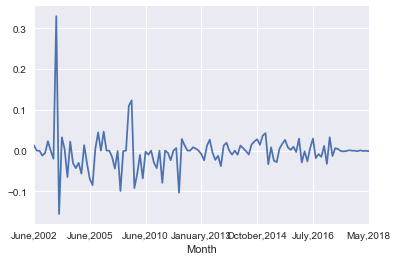
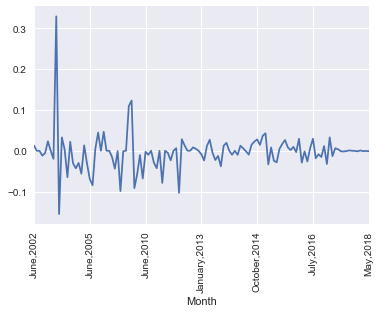
X tick label arranged horizontally in line plot

diff --git a/PetrolPriceTrendAnalysis.py b/PetrolPriceTrendAnalysis.py
@@ -89,7 +89,8 @@ finalpricechange = pd.DataFrame(meanpercentchangeprice_Delhi.sort_values(by=['Ye
 # Plot the Delhi price changes over months
 # Range: June, 2002 - May, 2018
 #
-finalpricechange.Delhi.plot(kind='line')
+g = finalpricechange.Delhi.plot(kind='line')
+g.set_xticklabels(g.get_xticklabels(),rotation='vertical')
 
 #g = sns.barplot(finalpricechange.MonthYear, finalpricechange.Delhi)
 
